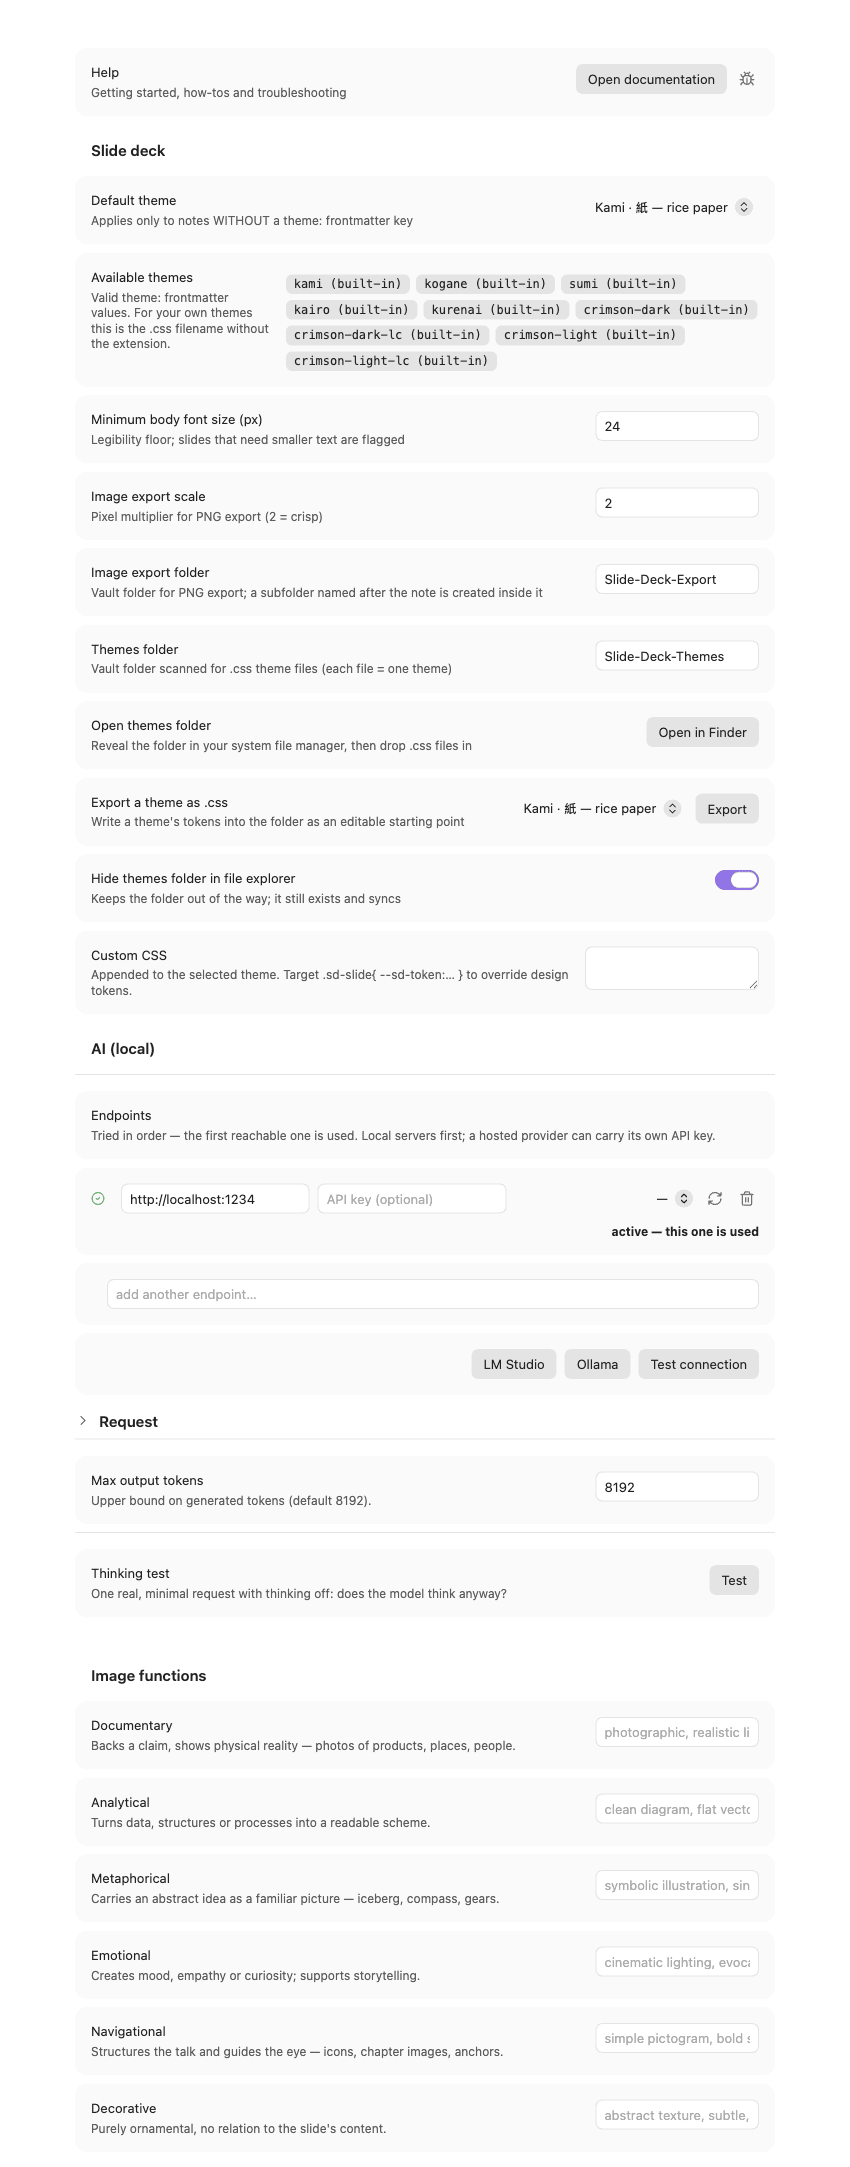
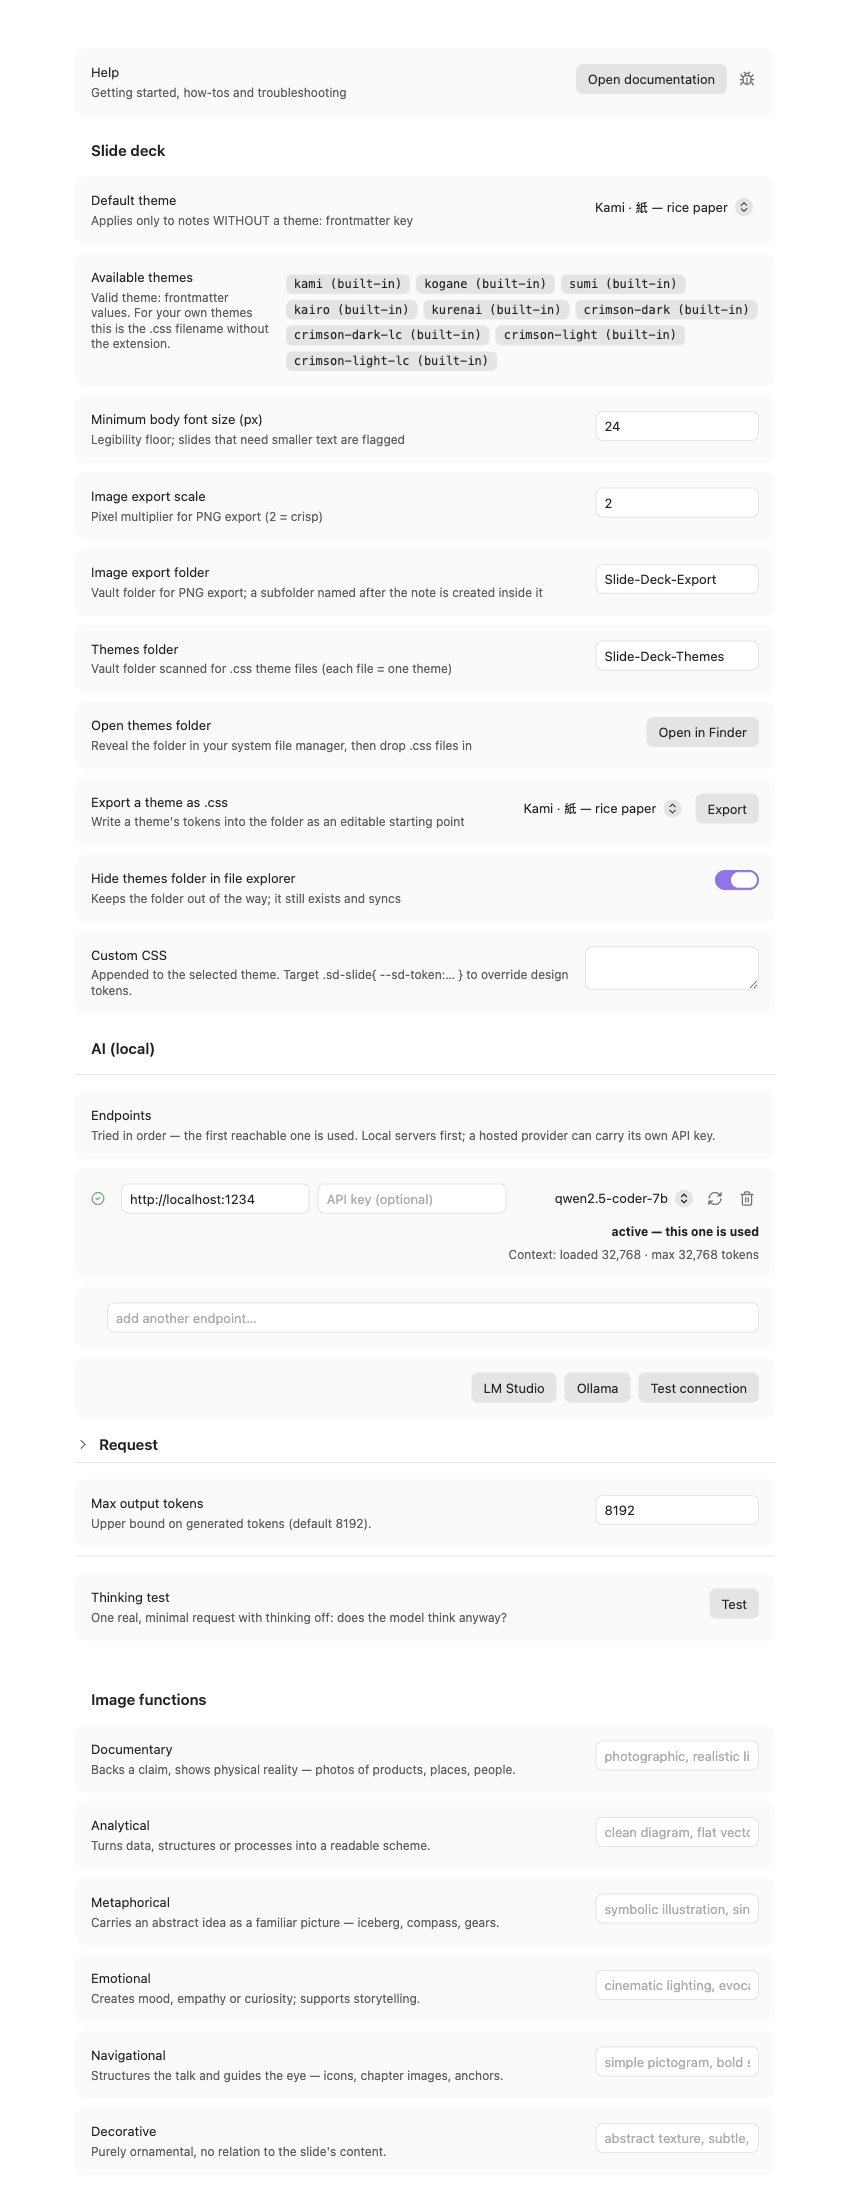
docs(settings): Kontextlaenge je Endpunkt-Zeile — CHANGELOG, README, Einstellungsbild, SMOKE
CHANGELOG unter Unreleased nach den Kit-Abschnitten 0.54.0 bis 0.56.1 und code-kit 0.22.0/0.23.0.
README (EN/DE) nennt die Kontextlaenge unter den automatischen Requests. settings.png neu aufgenommen
(das Rezept setzt fuer die Aufnahme das erste geladene Modell und stellt den Vorzustand danach wieder her).

diff --git a/scripts/shots-obsidian.ts b/scripts/shots-obsidian.ts
@@ -196,6 +196,28 @@ const SHOTS: Record<string, (cdp: Cdp) => Promise<string>> = {
 // lokalisiert) — deshalb ueber die Sache waehlen, nicht ueber den Titel: das Fenster
 // OHNE Workspace ist das Einstellungsfenster.
 async function settingsShot(workspace: Cdp): Promise<string> {
+  // Die Kontextzeile (obsidian-kit 0.56.0) steht nur unter einer Zeile MIT Modell. Fuer die Aufnahme bekommt die
+  // erste Zeile ohne Modell das erste GELADENE Modell ihres Servers; danach wird der Vorzustand zurueckgeschrieben
+  // (ein Rezept setzt seinen Zustand VOR und NACH dem Lauf zurueck). Ohne geladenes Modell bleibt das Bild ohne Zeile.
+  // Ein offenes Einstellungsfenster (Rest eines abgebrochenen Laufs) haelt seinen alten Aufbau — erst schliessen.
+  await workspace.evaluate("app.setting.close(); return true;");
+  await new Promise((r) => setTimeout(r, 500));
+  const vorher = await workspace.evaluate<string | null>(`
+    const plugin = app.plugins.plugins[${JSON.stringify(PLUGIN_ID)}];
+    const rows = plugin.settings.llmEndpoints;
+    const vorher = JSON.stringify(rows);
+    const row = rows.find((r) => r && r.url && !r.model);
+    if (!row) return null;
+    try {
+      const base = row.url.replace(new RegExp("/v1/?$"), "").replace(new RegExp("/$"), "");
+      const res = await fetch(base + "/api/v0/models");
+      const geladen = (await res.json()).data.find((m) => m.state === "loaded");
+      if (!geladen) return null;
+      row.model = geladen.id;
+    } catch { return null; }
+    plugin.llm.invalidate();
+    return vorher;
+  `);
   await workspace.evaluate(`
     app.setting.open();
     app.setting.openTabById(${JSON.stringify(PLUGIN_ID)});
@@ -220,6 +242,14 @@ async function settingsShot(workspace: Cdp): Promise<string> {
   const hinweis = await writeShot(settings, "settings.png", png, { ...SHOT_OPTS, thumb: true });
   if (settings !== workspace) settings.close();
   await workspace.evaluate("app.setting.close();");
+  if (vorher !== null) {
+    await workspace.evaluate(`
+      const plugin = app.plugins.plugins[${JSON.stringify(PLUGIN_ID)}];
+      plugin.settings.llmEndpoints = JSON.parse(${JSON.stringify(vorher)});
+      plugin.llm.invalidate();
+      return true;
+    `);
+  }
   return hinweis;
 }
 

diff --git a/docs/SMOKE.md b/docs/SMOKE.md
@@ -49,6 +49,7 @@ nehmen, sonst blockt der Guard den ersten Treiber-Aufruf.
 | B5 | KI-Settings-Blöcke stapeln, statt eine Flex-Row zu werden | `display` der `.sd-settings-host`-Elemente **und** die Geometrie ihrer Kinder (verschiedene `top`, gleiche linke Kante) — **mit** Gegenkontrolle, dass ein gewöhnliches `.setting-item` in dieser Obsidian-Version überhaupt `display:flex` ist |
 | C1 | Themes-Ordner ist im Explorer ausgeblendet | `display: none` am `.nav-folder-title[data-path=…]` — erst Existenz belegen, dann Eigenschaft |
 | C2 | Ausschalten macht ihn wieder sichtbar | dieselbe Messung, invertiert |
+| C3 | Bei fokussiertem Pop-out liegt das Blatt im Hauptfenster (`rootSplit.doc`), nicht im Pop-out | Pop-out öffnen und fokussieren, Plugin aus und ein; Gegenprobe mit `activeDocument` → rot (Hauptfenster 0 Blatt, Pop-out 1 Blatt) |
 | R1 | Abschnitt „Anfrage“ klappt auf und wieder zu | Wechsel des `is-collapsed`-Zustands in beide Richtungen — der Ausgangszustand lebt im Prozess und ist nicht vorhersagbar |
 | R2 | Wert überschreiben, dann zurücksetzen — der Abschnitt bleibt aufgeklappt | **zwei** Edits hintereinander (Kit-Einklapp-Fehler des Piloten war mit einem Edit unsichtbar) |
 | R3 | Zeile „Denk-Test“ folgt dem Anfrage-Abschnitt | Reihenfolge im Dokument, Knopf, **kein** Schalter (umgeschrieben mit dem Verbindungs-Tausch: das Kit zeichnet Quelle, Liste und Anfrage in einem Block, Modell und Budget stehen davor) |
@@ -340,3 +341,4 @@ Der praktische Merksatz für den nächsten Ausbau: **eine neue Zusage von `deck-
 fertig, wenn sie einen Prüfpunkt hat, dessen Gegenprobe im selben Punkt sitzt.** Zwei
 verschiedene Zahlen im Protokoll — nicht eine grüne — sind der Beleg dafür, dass gemessen
 wurde.
+| 2026-10-12 | 1.14.4 | **54/54 grün** nach Welle 18 (obsidian-kit 0.56.1, code-kit 0.23.0; C3 neu); Baseline davor 53/53, 3 übersprungen (PDF modal, G1/G2 ohne `--with-model`). Mit `--with-model` und geladenem Modell (`SD_SMOKE_MODEL=qwen/qwen3.6-27b`): G1 und G2 grün; mit einem nicht geladenen Modell scheiterten beide, auch am Stand 0.16.0 (LM Studio: „Failed to load model … Operation canceled“) — Umgebung, keine Regression | Mutation C3: `activeDocument` statt `rootSplit.doc` → C3 rot, zurück → grün. Zweitinstanz Port 9385, frischer Prozess je Lauf |

diff --git a/CHANGELOG.md b/CHANGELOG.md
@@ -6,6 +6,18 @@ versioning follows [SemVer](https://semver.org/).
 
 ## [Unreleased]
 
+### Added
+
+- **The endpoint list shows the context length of each row's model** (obsidian-kit 0.56.0): under a reachable row with a model it reads "Context: loaded N · max M tokens" (only "max M" when the model is not loaded, nothing when the server does not report a number), in English and German. It comes back after the *Model* row went away in 0.16.0; the lookup uses the row's API key and gives up after 5 seconds per attempt.
+- **The empty option in the model dropdown of an endpoint row reads "— (server picks)"** (German: "— (Server wählt)") instead of "global model (none set)", which was a leftover of the global model removed in 0.16.0. Choosing it clears the row's model and the server uses the one it has loaded.
+
+### Changed
+
+- **The context-length check in the generation dialog times out after 5 seconds per attempt** (code-kit 0.23.0). Before, a server that accepted the connection and never answered held the warning line open indefinitely. A 2xx answer counts now, not only exactly 200.
+- **Status tooltips of an endpoint use the kit's wording** (obsidian-kit 0.56.0). English: "Timeout — network unreachable …" instead of "Timed out — …", and "Responds, but is not an OpenAI-compatible endpoint — wrong path/service?" instead of "Answers, but … wrong path or service?". German is unchanged.
+- **Long or degenerate answers no longer slow the streaming area down** (obsidian-kit 0.54.0/0.55.0): the guard that keeps remote images out of the answer checks only what changed instead of the whole answer on every update (100 KB of streamed text: 3.2 s → 1.3 s), and a few more loading cases (`video poster`, SVG `feImage`) are caught; closing the area while a block is still rendering no longer cuts off its last pass.
+- **A model answer made of tens of thousands of unclosed `<think>` tags no longer freezes the plugin** (code-kit 0.22.0): the removal of thinking blocks in the response check is linear now (50 000 tags: 5.0 s → under 1 ms).
+
 ## [0.16.0] — 2026-10-11
 
 ### Changed

diff --git a/README.de.md b/README.de.md
@@ -251,8 +251,7 @@ richtest.
 
 Ist das Plugin **LLM Endpoint Manager** installiert, kommen die Endpunkte (samt Schlüsseln) stattdessen von ihm: Der Einstellungs-Tab bietet dann eine Endpunkt- und Modellwahl, und deine lokale Liste bleibt als Rückfall erhalten, wenn der Manager aus ist.
 
-- **Erreichbarkeits-Pings und Modell-Listen** werden abgefragt, wenn du den Erzeugen-Dialog oder
-  den Einstellungs-Tab öffnest. Das sind automatische Requests an die konfigurierten Endpoints.
+- **Erreichbarkeits-Pings, Modell-Listen und die Kontextlänge des Modells** werden abgefragt, wenn du den Erzeugen-Dialog oder den Einstellungs-Tab öffnest (der Einstellungs-Tab zeigt die Kontextlänge unter jeder Endpunkt-Zeile mit Modell). Das sind automatische Requests an die konfigurierten Endpoints.
 - **Notiz-Inhalte werden nur beim Klick auf „Erzeugen" gesendet.** Geheimnisse im Text (private Schlüssel, Bearer-Token, API-Schlüssel) werden auf dem Weg hinaus durch Platzhalter ersetzt; das erzeugte Deck bekommt die Originale zurück.
 - Keine Telemetrie, keine Analyse, keine Drittanbieter.
 

diff --git a/README.md b/README.md
@@ -266,8 +266,7 @@ API keys are **not** stored in the plugin's `data.json`: they go into Obsidian's
 
 If the **LLM Endpoint Manager** plugin is installed, the endpoints (and their keys) come from it instead: the settings tab then offers an endpoint and model choice, and your local list stays as a fallback for when the manager is off.
 
-- **Reachability pings and model lists** are requested when you open the generation dialog or
-  the settings tab. These are automatic requests to the configured endpoint(s).
+- **Reachability pings, model lists and the model's context length** are requested when you open the generation dialog or the settings tab (the settings tab shows the context length under each endpoint row that has a model). These are automatic requests to the configured endpoint(s).
 - **Note contents are sent only when you press "Generate".** Secrets in the text (private keys, bearer tokens, API keys) are replaced by placeholders on the way out; the generated deck gets the originals back.
 - No telemetry, no analytics, no third-party services.
 

diff --git a/AGENTS.md b/AGENTS.md
@@ -279,7 +279,7 @@ Aufnahme kein Obsidian; nur Vorschau-Pane, Overflow-Warnung und Einstellungen br
 `shots:obsidian` setzt `$STAGING_VAULTS_DIR` und ein mit `--remote-debugging-port=9222`
 gestartetes Obsidian voraus.
 
-**GUI-Smoke (CORE-TEST-02 b):** `scripts/gui-smoke.ts` faehrt dreiundfuenfzig Pruefpunkte per CDP gegen
+**GUI-Smoke (CORE-TEST-02 b):** `scripts/gui-smoke.ts` faehrt vierundfuenfzig Pruefpunkte per CDP gegen
 ein laufendes Obsidian — die Naht, die `vitest` mit `environment: "node"` strukturell nicht
 sieht: iframe-Isolation, Schrift-Metriken, Explorer-Markup, Bilder-Export. Checkliste,
 Hand-Runde und Durchlauf-Vermerke in `docs/SMOKE.md`; die CDP-Bruecke kommt aus
